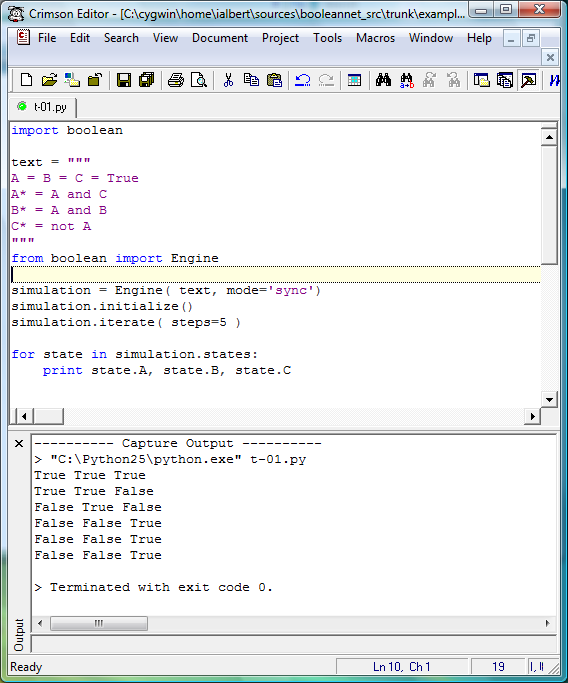
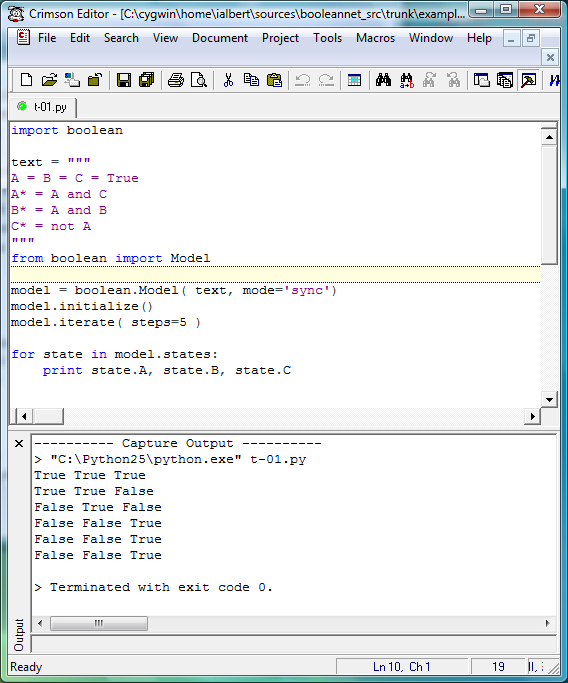
changed Engine to Model to better describe the goals of the library

diff --git a/docs/booleannet.html b/docs/booleannet.html
@@ -496,18 +496,37 @@ Also see AdvancedOptions</pre>
 </div>
 <!--POST-SHADOWAREA-->
 <div id="storeArea">
-<div title="API Interface" modifier="Istvan Albert" modified="200803071553" created="200803070005" changecount="12">
+<div title="API Interface" modifier="Istvan Albert" modified="200803071633" created="200803070005" changecount="24">
 <pre>A brief reference for  the Application Programming Interface.
 {{{
 import boolean
-sim = Engine(text, mode='sync')
+model = boolean.Model(text, mode='sync')
 }}}
 Mode may be: ''sync'', ''async'' or ''plde'' corresponding to synchronous, asycnhronous and piece-wise linear differential equations.
 {{{
-def missing( node ):
+def missing( node_name ):
     return True
-sim.initialize( misssing=missing )
-}}}</pre>
+model.initialize( misssing=missing )
+}}}
+Initializes unintialized nodes to a value, this case ''True''. The ''node_name'' parameter is a string. Required when not all nodes get initial values from the text.
+{{{
+data = dict( A=False )
+model.initialize( default=data )
+}}}
+The optional default parameter takes a dictionary that main contain nodes mapped to values. The value of the node will override all other values set either via the text or via the missing parameter. Main use case is to temporarily override settings with ease.
+{{{
+from boolean import util
+on = [&quot;A&quot;, &quot;B&quot;]
+off = [&quot;C&quot;, &quot;D&quot;]
+text = util.modify_states(text, turnon=on, turnoff=off)
+}}}
+A convenience function that modifies the input rules, to generate knockout or overexpressed mutants. Note that it operates on the input text. The example above will set nodes ''A'' and ''B'' to ''True'' and nodes ''C'' and ''D'' to ''False'' over the entire simulation. It will also remove the updating rules for all these nodes. You can print the &quot;text&quot; variable to see how the rules are altered.
+{{{
+model = Model( text, mode='sync')
+model.initialize()
+model.iterate( steps=5 )
+}}}
+</pre>
 </div>
 <div title="About" modifier="Istvan Albert" modified="200803071537" created="200803062357" changecount="2">
 <pre>The library has been conceived and programmed by [[István Albert|http://www.personal.psu.edu/iua1/]] using previous work, ideas and contributions from Song Li, Juilee Thakar and Ranran Zhang. None of us would be thinking about Boolean Networks if it weren't for [[Réka Albert|http://www.phys.psu.edu/~ralbert/]].</pre>
@@ -619,14 +638,13 @@ This is a link to a [[StyleSheet]] tiddler.
 <div title="SiteTitle" modifier="Istvan Albert" created="200803062349" changecount="2">
 <pre>~BooleanNet </pre>
 </div>
-<div title="StyleSheet" modifier="Istvan Albert" modified="200803071553" created="200709121208" tags="MochaTheme" changecount="10">
-<pre> #contentWrapper{
-margin: 0 3.4em;
-
-font-family: Lucida Grande, Tahoma, Arial, Helvetica, sans-serif; /* Lucida Grande for the Macs, Tahoma for the PCs */
-font-size: 14px;
-			line-height: 1.6em;
-			color: #666;
+<div title="StyleSheet" modifier="Istvan Albert" modified="200803071629" created="200709121208" tags="MochaTheme" changecount="14">
+<pre> #contentWrapper{ 
+    margin: 0 3.4em;
+    font-family: Lucida Grande, Tahoma, Arial, Helvetica, sans-serif; /* Lucida Grande for the Macs, Tahoma for the PCs */
+    font-size: 14px;
+    line-height: 1.6em;
+    color: #666;
 }
 
 .header {
@@ -979,23 +997,25 @@ Link to [[t-02.py source|http://code.google.com/p/booleannet/source/browse/trunk
 
 </pre>
 </div>
-<div title="Using the library" modifier="Istvan Albert" modified="200803071507" created="200803062351" tags="Setup" changecount="14">
+<div title="Using the library" modifier="Istvan Albert" modified="200803071639" created="200803062351" tags="Setup" changecount="15">
 <pre>''~BooleanNet'' is a software library, and therefore is used within simple python programs. Similarly to the way on uses ''Matlab'' or ''R'', in order to use ''~BooleanNet'' one writes a separate script that invokes certain functions offered by the library.  Here is an example:
 {{{
+import boolean
+
 text = &quot;&quot;&quot;
 A = B = C = True
 A* = A and C
 B* = A and B
 C* = not A
 &quot;&quot;&quot;
-from boolean import Engine
-simulation = Engine( text, mode='sync')
-simulation.initialize()
-simulation.iterate( steps=5 )
+from boolean import Model
 
-for state in simulation.states:
+model = boolean.Model( text, mode='sync')
+model.initialize()
+model.iterate( steps=5 )
+
+for state in model.states:
     print state.A, state.B, state.C
-
 }}}
 place the content above in a file called ''simulation.py'' then execute it from the command line like so:
 {{{

diff --git a/boolean/plde.py b/boolean/plde.py
@@ -21,7 +21,7 @@ def default_equation( tokens, indexer ):
     text = helper.change(node, indexer) + ' = ' + helper.piecewise(tokens, indexer)
     return text
 
-class Engine( async.Engine ):
+class Model( async.Model ):
     """
     This class generates python code that will be executed inside 
     the Runge-Kutta integrator.
@@ -29,7 +29,7 @@ class Engine( async.Engine ):
     def __init__(self, text, mode):
         
         # run the regular boolen engine for one step to detect syntax errors
-        eng = async.Engine(text=text, mode='sync')
+        eng = async.Model(text=text, mode='sync')
         eng.initialize( missing=util.randomize )
         eng.iterate( steps=1 )
 
@@ -40,7 +40,7 @@ class Engine( async.Engine ):
         self.EXTRA_INIT = ''
 
         # setting up this engine
-        async.Engine.__init__(self, text=text, mode=mode)
+        async.Model.__init__(self, text=text, mode=mode)
         self.dynamic_code = '*** not yet generated ***'
         self.lazy_data = {}
     
@@ -51,7 +51,7 @@ class Engine( async.Engine ):
 
     def initialize(self, missing=None, defaults={} ):
         "Custom initializer"
-        async.Engine.initialize( self, missing=missing, defaults=defaults )
+        async.Model.initialize( self, missing=missing, defaults=defaults )
         
         # will also maintain the order of insertion
         self.mapper  = odict.odict() 
@@ -204,7 +204,7 @@ if __name__ == '__main__':
     3: C* = C
     """
 
-    engine = Engine( text=stext, mode='plde' )
+    engine = Model( text=stext, mode='plde' )
     engine.initialize()
     engine.iterate( fullt=1, steps=10 )
     

diff --git a/boolean/__init__.py b/boolean/__init__.py
@@ -56,14 +56,19 @@ def add_ranks( text ):
     return '\n'.join( lines )
 
 # class factory function 
-def Engine(text, mode):
+def Model(text, mode):
     # the enigne will add ranks if these are missing
     text = add_ranks( text )
 
     if mode in ('plde', 'lpde'): 
-        return plde.Engine(text=text, mode=mode)
+        return plde.Model(text=text, mode=mode)
     else:
-        return async.Engine(text=text, mode=mode)
+        return async.Model(text=text, mode=mode)
+
+# to keep backwards compatibility
+def Engine( text, mode):
+    print '*** boolean.Engine is now deprecated, used boolean.Model instead ***'
+    return Model( text, mode)
 
 def test():
     

diff --git a/boolean/async.py b/boolean/async.py
@@ -118,7 +118,7 @@ def p_error(p):
         text = "%s -> at '%s'" % (hdr, msg)
     util.error( text )
     
-class Engine(object):
+class Model(object):
     "Represents a boolean parser"
     def __init__(self, mode, text ):
         """
@@ -364,7 +364,7 @@ if __name__ == '__main__':
     1: C* = B
     """
 
-    engine = Engine( mode='sync', text=text )
+    engine = Model( mode='sync', text=text )
 
     engine.initialize( )
 

diff --git a/examples/tutorials/tut-01/t-01.py b/examples/tutorials/tut-01/t-01.py
@@ -6,13 +6,13 @@ A* = A and C
 B* = A and B
 C* = not A
 """
-from boolean import Engine
+from boolean import Model
 
-simulation = Engine( text, mode='sync')
-simulation.initialize()
-simulation.iterate( steps=5 )
+model = boolean.Model( text, mode='sync')
+model.initialize()
+model.iterate( steps=5 )
 
-for state in simulation.states:
+for state in model.states:
     print state.A, state.B, state.C
 
 
